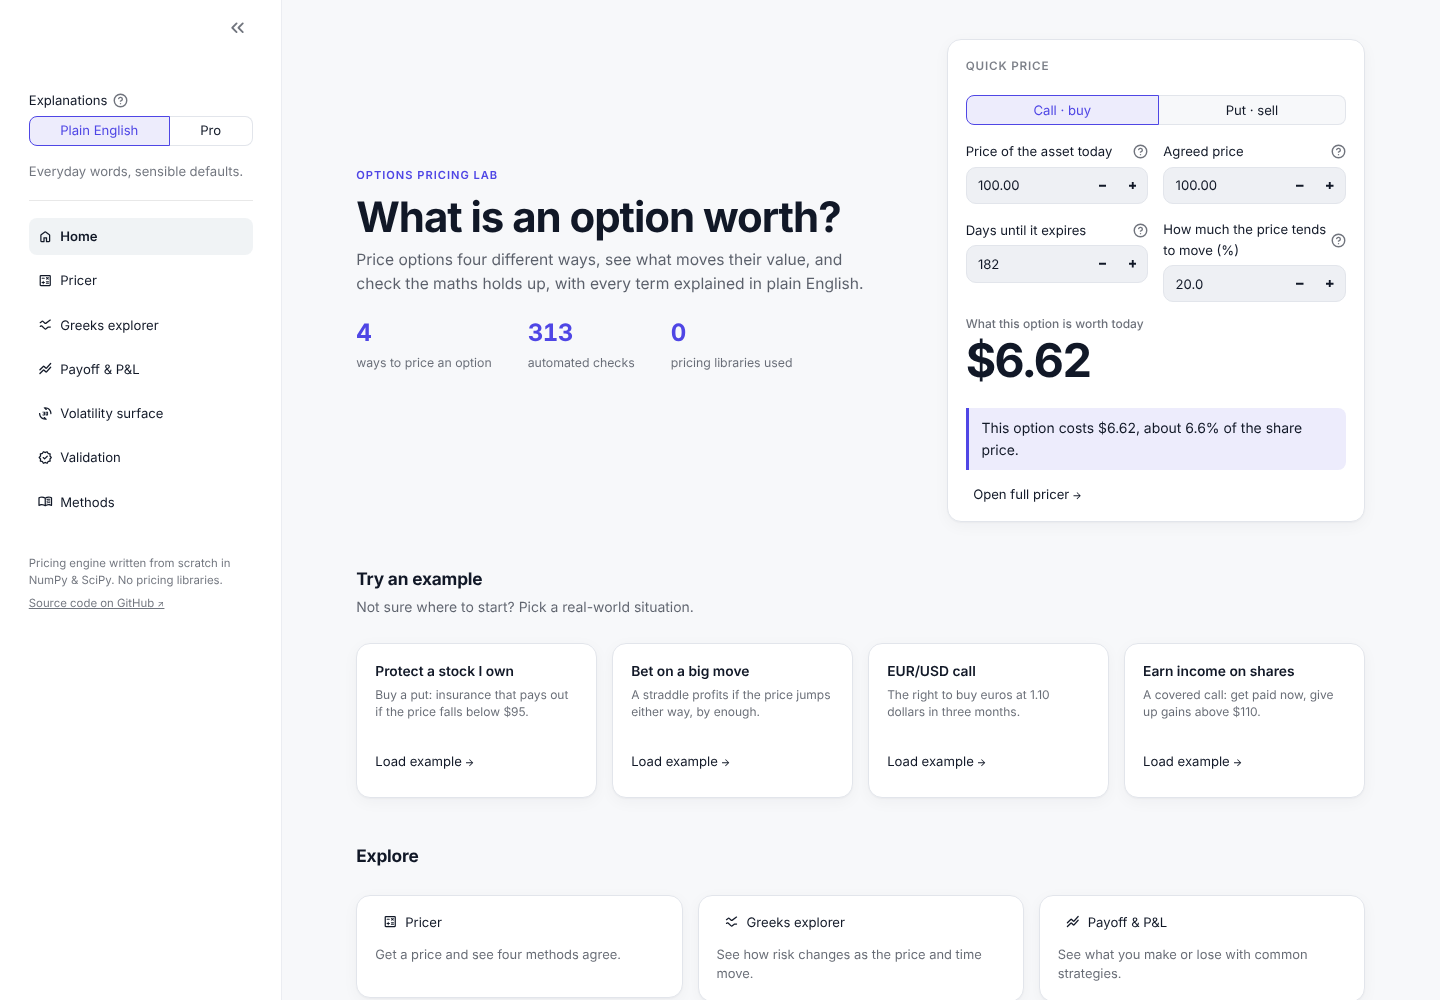
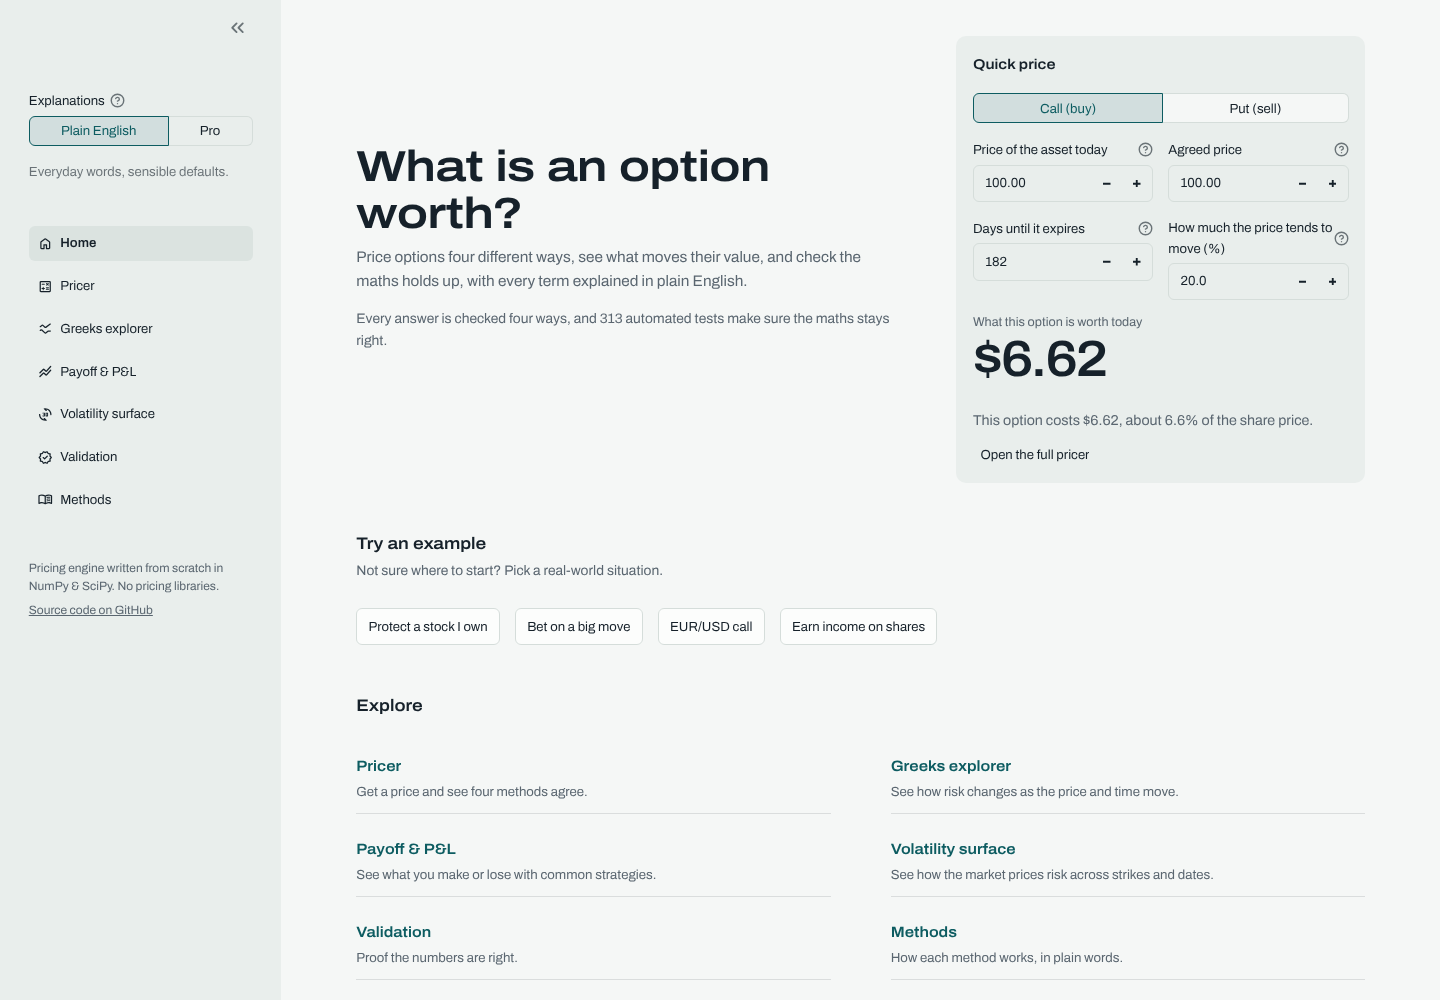
Update screenshots, badges and design notes for the redesign
Claude-Session: https://claude.ai/code/session_01VeGS77HsgiW3BPQkf4nSV2

diff --git a/docs/development-plan.md b/docs/development-plan.md
@@ -73,3 +73,16 @@ options-pricing-lab/
 1. **Engine:** all six components, with 313 tests plus 2 doctests (textbook values, no-arbitrage, convergence orders, MC statistics, IV round trips, Greeks).
 2. **UI:** seven pages, a Plain English / Pro switch bound to `?mode=`, persistent inputs across pages, presets.
 3. **Polish:** screenshot review in light, dark and phone-width layouts; README figure generated from the library; CI on Python 3.12 and 3.13.
+
+## Visual redesign (after the first release)
+
+The first version used the default "AI SaaS" look: Tailwind indigo, Inter, identical rounded cards with soft shadows, uppercase eyebrow labels and callout boxes. The redesign gives it a point of view suited to a pricing tool:
+
+| Choice | Detail |
+|---|---|
+| Palette | Cool paper `#f5f7f6`, slate ink `#16212a`, petrol accent `#0d5c61`; green/red reserved for gains and losses. Dark mode uses deep petrol-slate, not neutral black. |
+| Type | One family, Archivo, with its width axis as the expressive variable: headings semi-expanded, body at normal width, all figures tabular. |
+| Surfaces | Inputs sit on a tinted panel; results are open text and tables, not cards. |
+| Signature element | The method ledger: prices aligned on the decimal point, with digits that diverge from the reference faded, so agreement is visible at a glance. |
+| Removed | Card grids, eyebrow labels, the stat strip, callout boxes, arrows on links, and "·"-joined meta strings. |
+| Fixed | Page title clipped under the top bar on phones; copy that said "on the left" when inputs sit above on a phone. |

diff --git a/README.md b/README.md
@@ -2,8 +2,8 @@
 
 [![Open in Streamlit](https://static.streamlit.io/badges/streamlit_badge_black_white.svg)](https://options-pricing-lab-bastianfh.streamlit.app/)
 [![tests](https://github.com/bastianfh/options-pricing-lab/actions/workflows/tests.yml/badge.svg)](https://github.com/bastianfh/options-pricing-lab/actions/workflows/tests.yml)
-![Python](https://img.shields.io/badge/python-3.12%20%7C%203.13-4f46e5)
-![License: MIT](https://img.shields.io/badge/license-MIT-4f46e5)
+![Python](https://img.shields.io/badge/python-3.12%20%7C%203.13-0d5c61)
+![License: MIT](https://img.shields.io/badge/license-MIT-0d5c61)
 
 **An app that prices options four different ways and shows they all land on the same answer. I wrote the pricing maths myself instead of using an existing library.**
 
